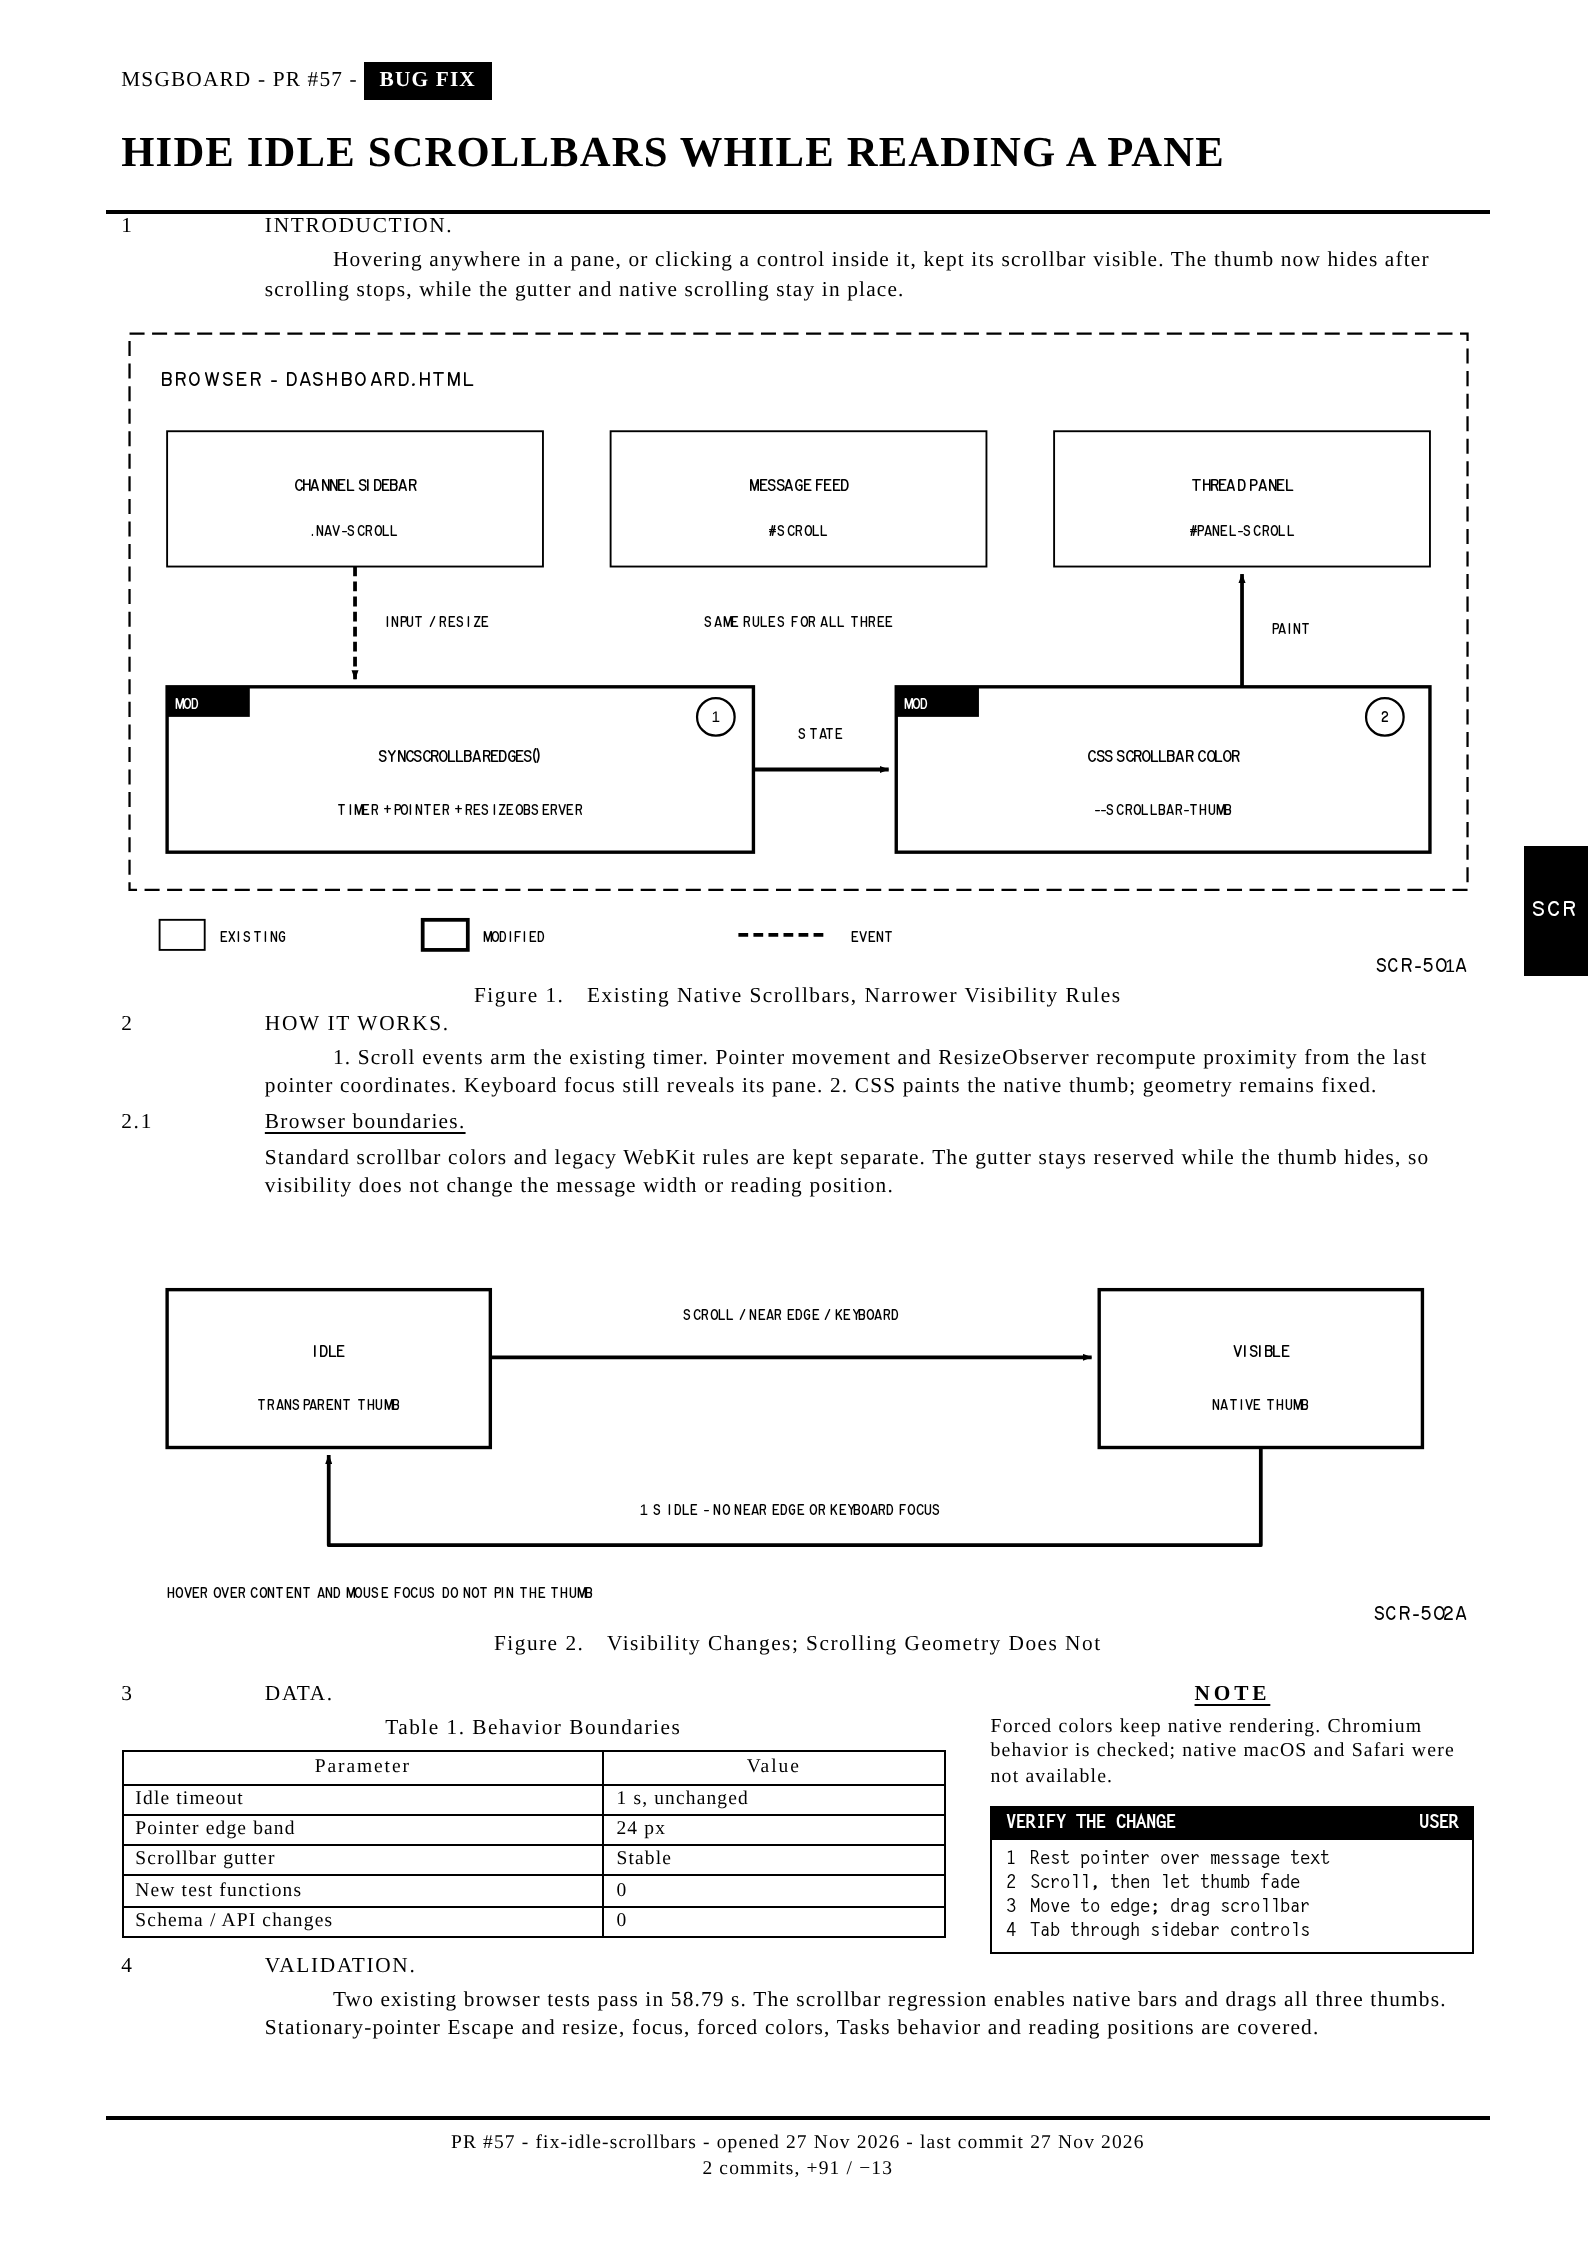
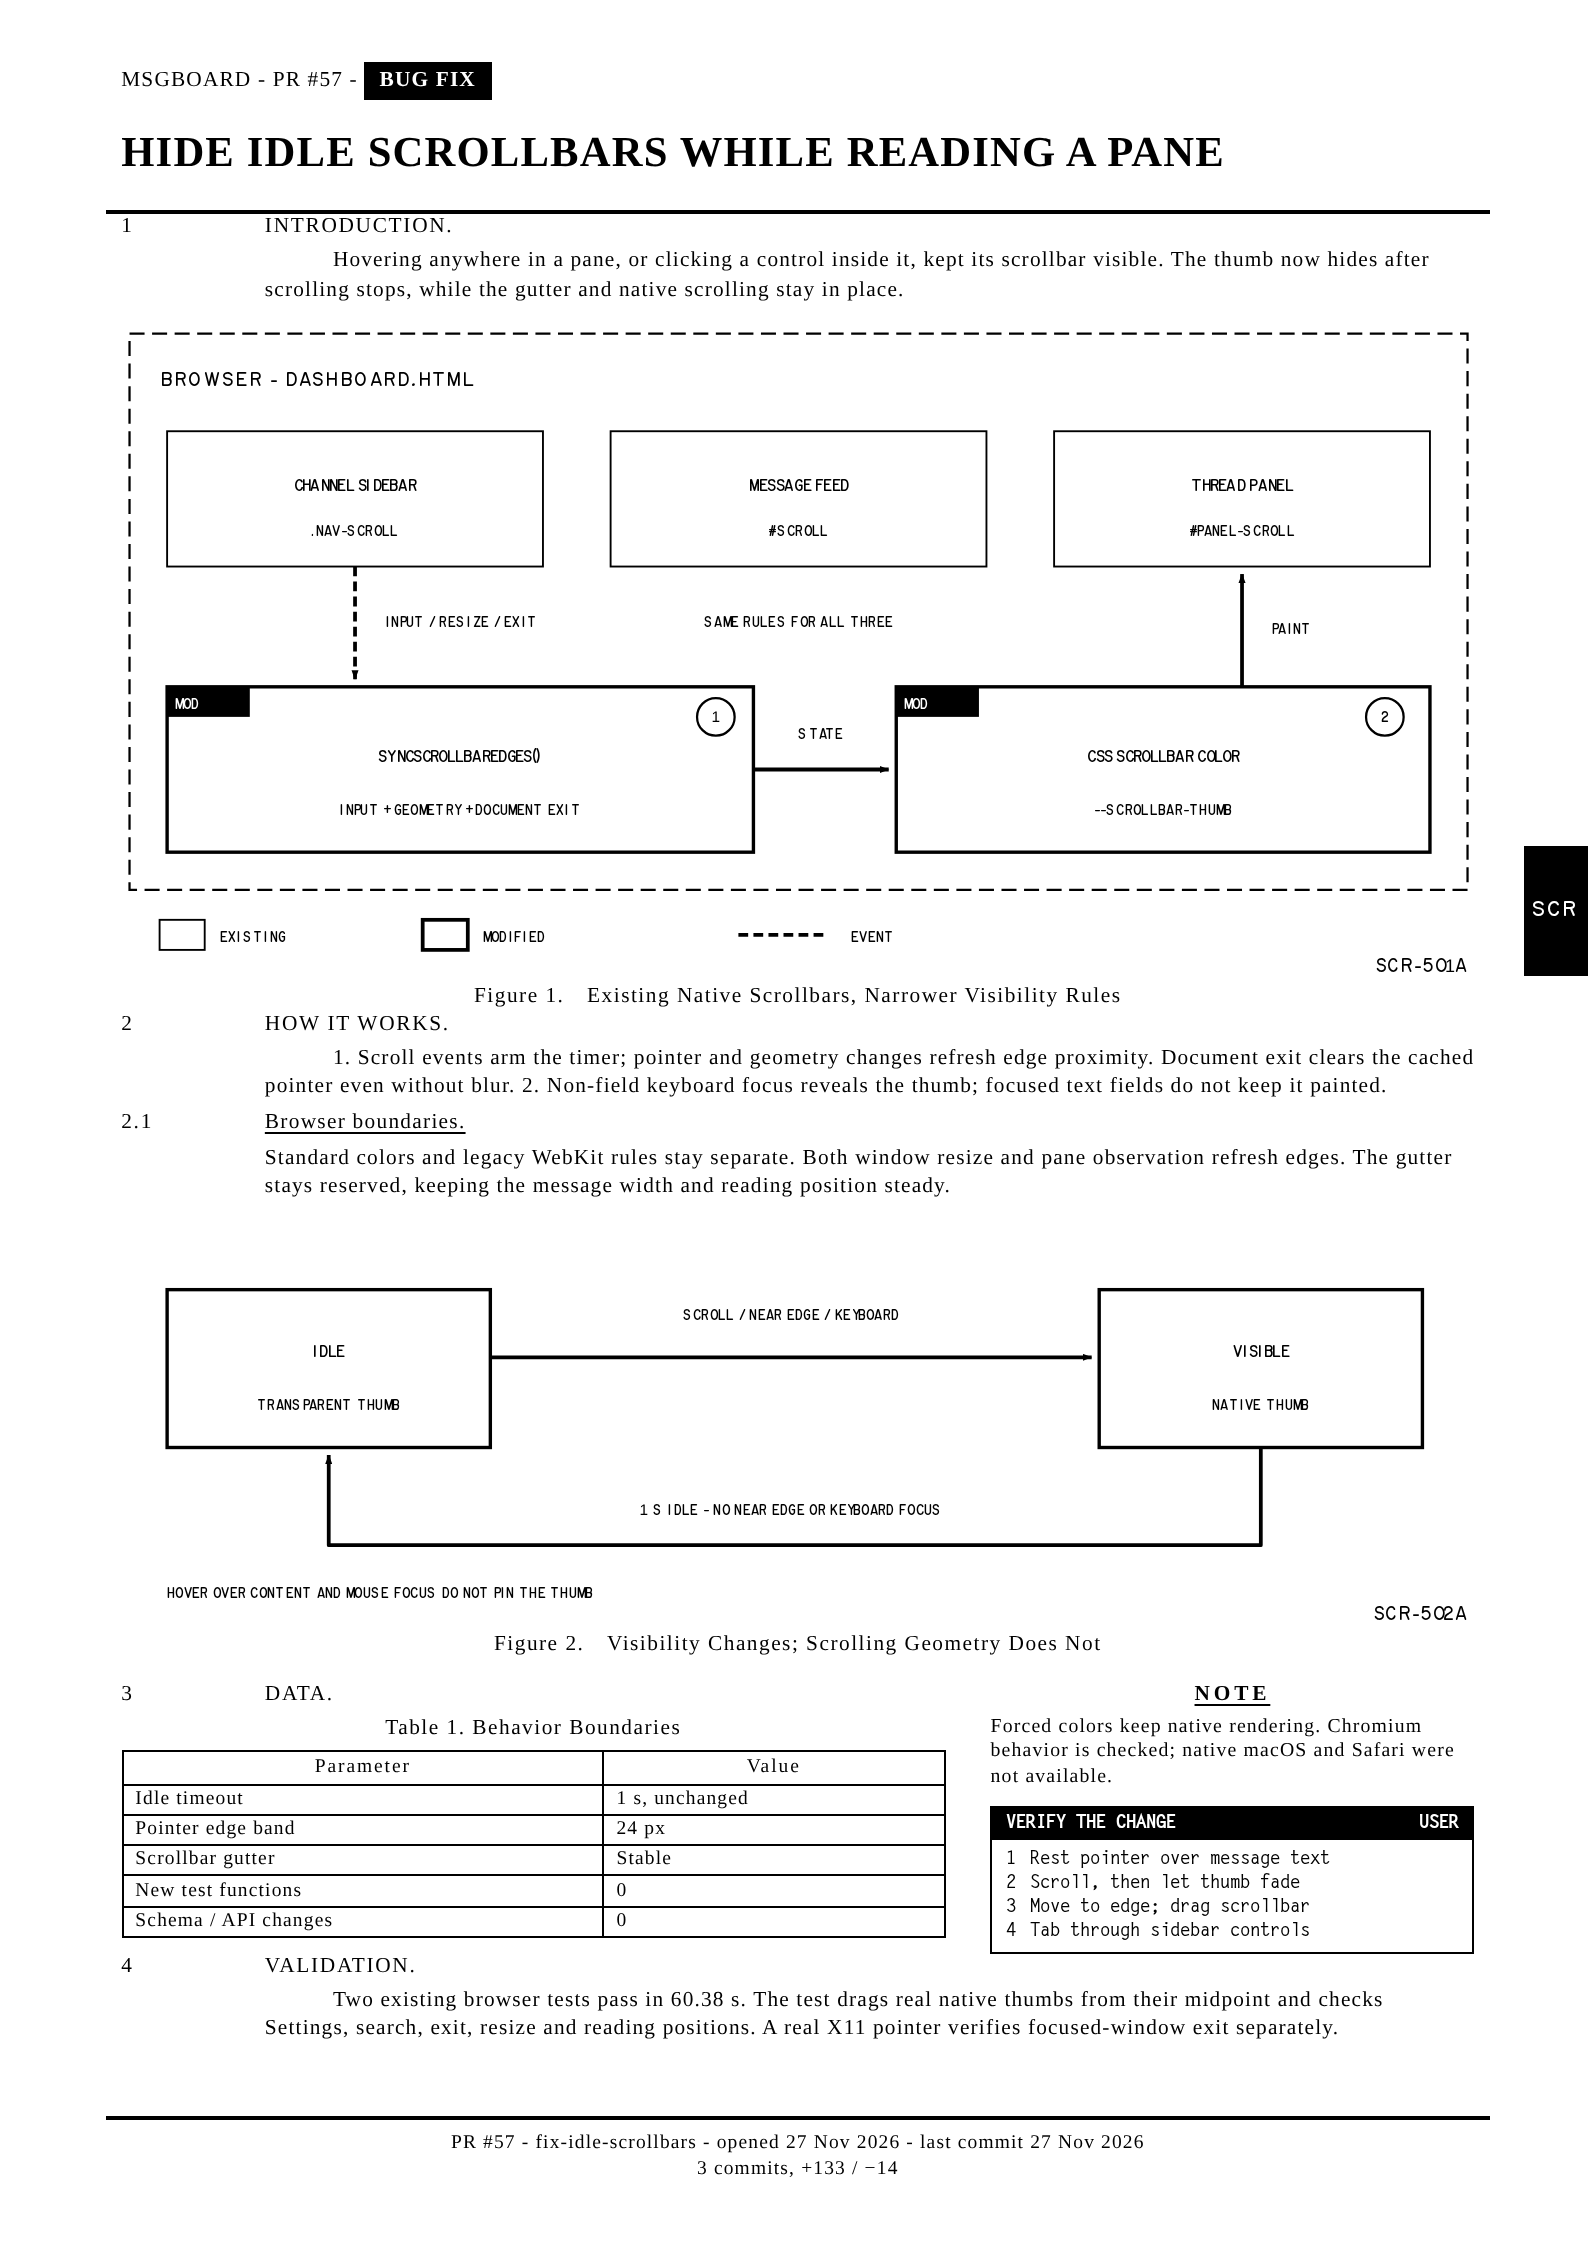
Document scrollbar exit and focus review fixes

diff --git a/artifacts/pr-57/pr-57.html b/artifacts/pr-57/pr-57.html
@@ -134,14 +134,14 @@
 <rect x="6" y="14" width="50" height="18" fill="white" stroke="black" stroke-width=".25"/><text class="lbl" x="31" y="22" text-anchor="middle">CHANNEL SIDEBAR</text><text class="lbl-s" x="31" y="28" text-anchor="middle">.NAV-SCROLL</text>
 <rect x="65" y="14" width="50" height="18" fill="white" stroke="black" stroke-width=".25"/><text class="lbl" x="90" y="22" text-anchor="middle">MESSAGE FEED</text><text class="lbl-s" x="90" y="28" text-anchor="middle">#SCROLL</text>
 <rect x="124" y="14" width="50" height="18" fill="white" stroke="black" stroke-width=".25"/><text class="lbl" x="149" y="22" text-anchor="middle">THREAD PANEL</text><text class="lbl-s" x="149" y="28" text-anchor="middle">#PANEL-SCROLL</text>
-<text class="lbl-s" x="90" y="40" text-anchor="middle">SAME RULES FOR ALL THREE</text><path class="wa" style="stroke-width:.5;stroke-dasharray:1.3 .7" d="M31 32V47"/><text class="lbl-s" x="35" y="40">INPUT / RESIZE</text>
-<rect class="box" x="6" y="48" width="78" height="22"/><rect x="6" y="48" width="11" height="4" fill="black"/><text class="lbl-s" x="7" y="51" style="fill:white">MOD</text><circle cx="79" cy="52" r="2.5" fill="white" stroke="black" stroke-width=".3"/><text class="lbl-s" x="79" y="52.7" text-anchor="middle">1</text><text class="lbl" x="45" y="58" text-anchor="middle">SYNCSCROLLBAREDGES()</text><text class="lbl-s" x="45" y="65" text-anchor="middle">TIMER + POINTER + RESIZEOBSERVER</text>
+<text class="lbl-s" x="90" y="40" text-anchor="middle">SAME RULES FOR ALL THREE</text><path class="wa" style="stroke-width:.5;stroke-dasharray:1.3 .7" d="M31 32V47"/><text class="lbl-s" x="35" y="40">INPUT / RESIZE / EXIT</text>
+<rect class="box" x="6" y="48" width="78" height="22"/><rect x="6" y="48" width="11" height="4" fill="black"/><text class="lbl-s" x="7" y="51" style="fill:white">MOD</text><circle cx="79" cy="52" r="2.5" fill="white" stroke="black" stroke-width=".3"/><text class="lbl-s" x="79" y="52.7" text-anchor="middle">1</text><text class="lbl" x="45" y="58" text-anchor="middle">SYNCSCROLLBAREDGES()</text><text class="lbl-s" x="45" y="65" text-anchor="middle">INPUT + GEOMETRY + DOCUMENT EXIT</text>
 <path class="wa" style="stroke-width:.5" d="M84 59H102"/><text class="lbl-s" x="93" y="55" text-anchor="middle">STATE</text>
 <rect class="box" x="103" y="48" width="71" height="22"/><rect x="103" y="48" width="11" height="4" fill="black"/><text class="lbl-s" x="104" y="51" style="fill:white">MOD</text><circle cx="168" cy="52" r="2.5" fill="white" stroke="black" stroke-width=".3"/><text class="lbl-s" x="168" y="52.7" text-anchor="middle">2</text><text class="lbl" x="138.5" y="58" text-anchor="middle">CSS SCROLLBAR COLOR</text><text class="lbl-s" x="138.5" y="65" text-anchor="middle">--SCROLLBAR-THUMB</text>
 <path class="wa" style="stroke-width:.5" d="M149 48V33"/><text class="lbl-s" x="153" y="41">PAINT</text>
 <rect x="5" y="79" width="6" height="4" fill="white" stroke="black" stroke-width=".25"/><text class="lbl-s" x="13" y="82">EXISTING</text><rect x="40" y="79" width="6" height="4" fill="white" stroke="black" stroke-width=".5"/><text class="lbl-s" x="48" y="82">MODIFIED</text><path d="M82 81H94" stroke="black" stroke-width=".5" stroke-dasharray="1.3 .7"/><text class="lbl-s" x="97" y="82">EVENT</text><text class="code" x="179" y="86" text-anchor="end">SCR-501A</text></svg><figcaption><span class="n">Figure 1.</span>Existing Native Scrollbars, Narrower Visibility Rules</figcaption></figure>
-<section class="para"><div class="num">2</div><div><h2>HOW IT WORKS.</h2><p>1. Scroll events arm the existing timer. Pointer movement and ResizeObserver recompute proximity from the last pointer coordinates. Keyboard focus still reveals its pane. 2. CSS paints the native thumb; geometry remains fixed.</p></div></section>
-<section class="para"><div class="num">2.1</div><div><h3>Browser boundaries.</h3><p class="flush">Standard scrollbar colors and legacy WebKit rules are kept separate. The gutter stays reserved while the thumb hides, so visibility does not change the message width or reading position.</p></div></section>
+<section class="para"><div class="num">2</div><div><h2>HOW IT WORKS.</h2><p>1. Scroll events arm the timer; pointer and geometry changes refresh edge proximity. Document exit clears the cached pointer even without blur. 2. Non-field keyboard focus reveals the thumb; focused text fields do not keep it painted.</p></div></section>
+<section class="para"><div class="num">2.1</div><div><h3>Browser boundaries.</h3><p class="flush">Standard colors and legacy WebKit rules stay separate. Both window resize and pane observation refresh edges. The gutter stays reserved, keeping the message width and reading position steady.</p></div></section>
 <figure><svg viewBox="0 0 180 54" role="img" aria-label="Scrollbar thumb toggles between transparent and visible">
 <rect class="box" x="6" y="9" width="43" height="21"/><text class="lbl" x="27.5" y="18" text-anchor="middle">IDLE</text><text class="lbl-s" x="27.5" y="25" text-anchor="middle">TRANSPARENT THUMB</text>
 <path class="wa" style="stroke-width:.5" d="M49 18H129"/><text class="lbl-s" x="89" y="13" text-anchor="middle">SCROLL / NEAR EDGE / KEYBOARD</text>
@@ -149,8 +149,8 @@
 <path class="wa" style="stroke-width:.5" d="M151.5 30V43H27.5V31"/><text class="lbl-s" x="89" y="39" text-anchor="middle">1 S IDLE - NO NEAR EDGE OR KEYBOARD FOCUS</text>
 <text class="lbl-s" x="6" y="50">HOVER OVER CONTENT AND MOUSE FOCUS DO NOT PIN THE THUMB</text><text class="code" x="179" y="53" text-anchor="end">SCR-502A</text></svg><figcaption><span class="n">Figure 2.</span>Visibility Changes; Scrolling Geometry Does Not</figcaption></figure>
 <div class="lower"><div><section class="para"><div class="num">3</div><div><h2>DATA.</h2></div></section><div class="tcap">Table 1. Behavior Boundaries</div><table><thead><tr><th>Parameter</th><th>Value</th></tr></thead><tbody><tr><td>Idle timeout</td><td class="v">1 s, unchanged</td></tr><tr><td>Pointer edge band</td><td class="v">24 px</td></tr><tr><td>Scrollbar gutter</td><td class="v">Stable</td></tr><tr><td>New test functions</td><td class="v">0</td></tr><tr><td>Schema / API changes</td><td class="v">0</td></tr></tbody></table></div><div><div class="notice"><span class="tag">NOTE</span><p>Forced colors keep native rendering. Chromium behavior is checked; native macOS and Safari were not available.</p></div><div class="card"><div class="bar"><span>VERIFY THE CHANGE</span><span>USER</span></div><ol><li><span>1</span><span>Rest pointer over message text</span></li><li><span>2</span><span>Scroll, then let thumb fade</span></li><li><span>3</span><span>Move to edge; drag scrollbar</span></li><li><span>4</span><span>Tab through sidebar controls</span></li></ol></div></div></div>
-<section class="para"><div class="num">4</div><div><h2>VALIDATION.</h2><p>Two existing browser tests pass in 58.79 s. The scrollbar regression enables native bars and drags all three thumbs. Stationary-pointer Escape and resize, focus, forced colors, Tasks behavior and reading positions are covered.</p></div></section>
-<footer class="foot"><div class="rule"></div><div style="text-align:center;font-size:7.3pt">PR #57 - fix-idle-scrollbars - opened 27 Nov 2026 - last commit 27 Nov 2026<br>2 commits, +91 / −13</div></footer></div><script>
+<section class="para"><div class="num">4</div><div><h2>VALIDATION.</h2><p>Two existing browser tests pass in 60.38 s. The test drags real native thumbs from their midpoint and checks Settings, search, exit, resize and reading positions. A real X11 pointer verifies focused-window exit separately.</p></div></section>
+<footer class="foot"><div class="rule"></div><div style="text-align:center;font-size:7.3pt">PR #57 - fix-idle-scrollbars - opened 27 Nov 2026 - last commit 27 Nov 2026<br>3 commits, +133 / −14</div></footer></div><script>
   // Fit check: room left between the last content block and the footer.
   // .page hides overflow, so without this an overfull page fails silently.
   // render.sh prints the result from <html data-fit>.
